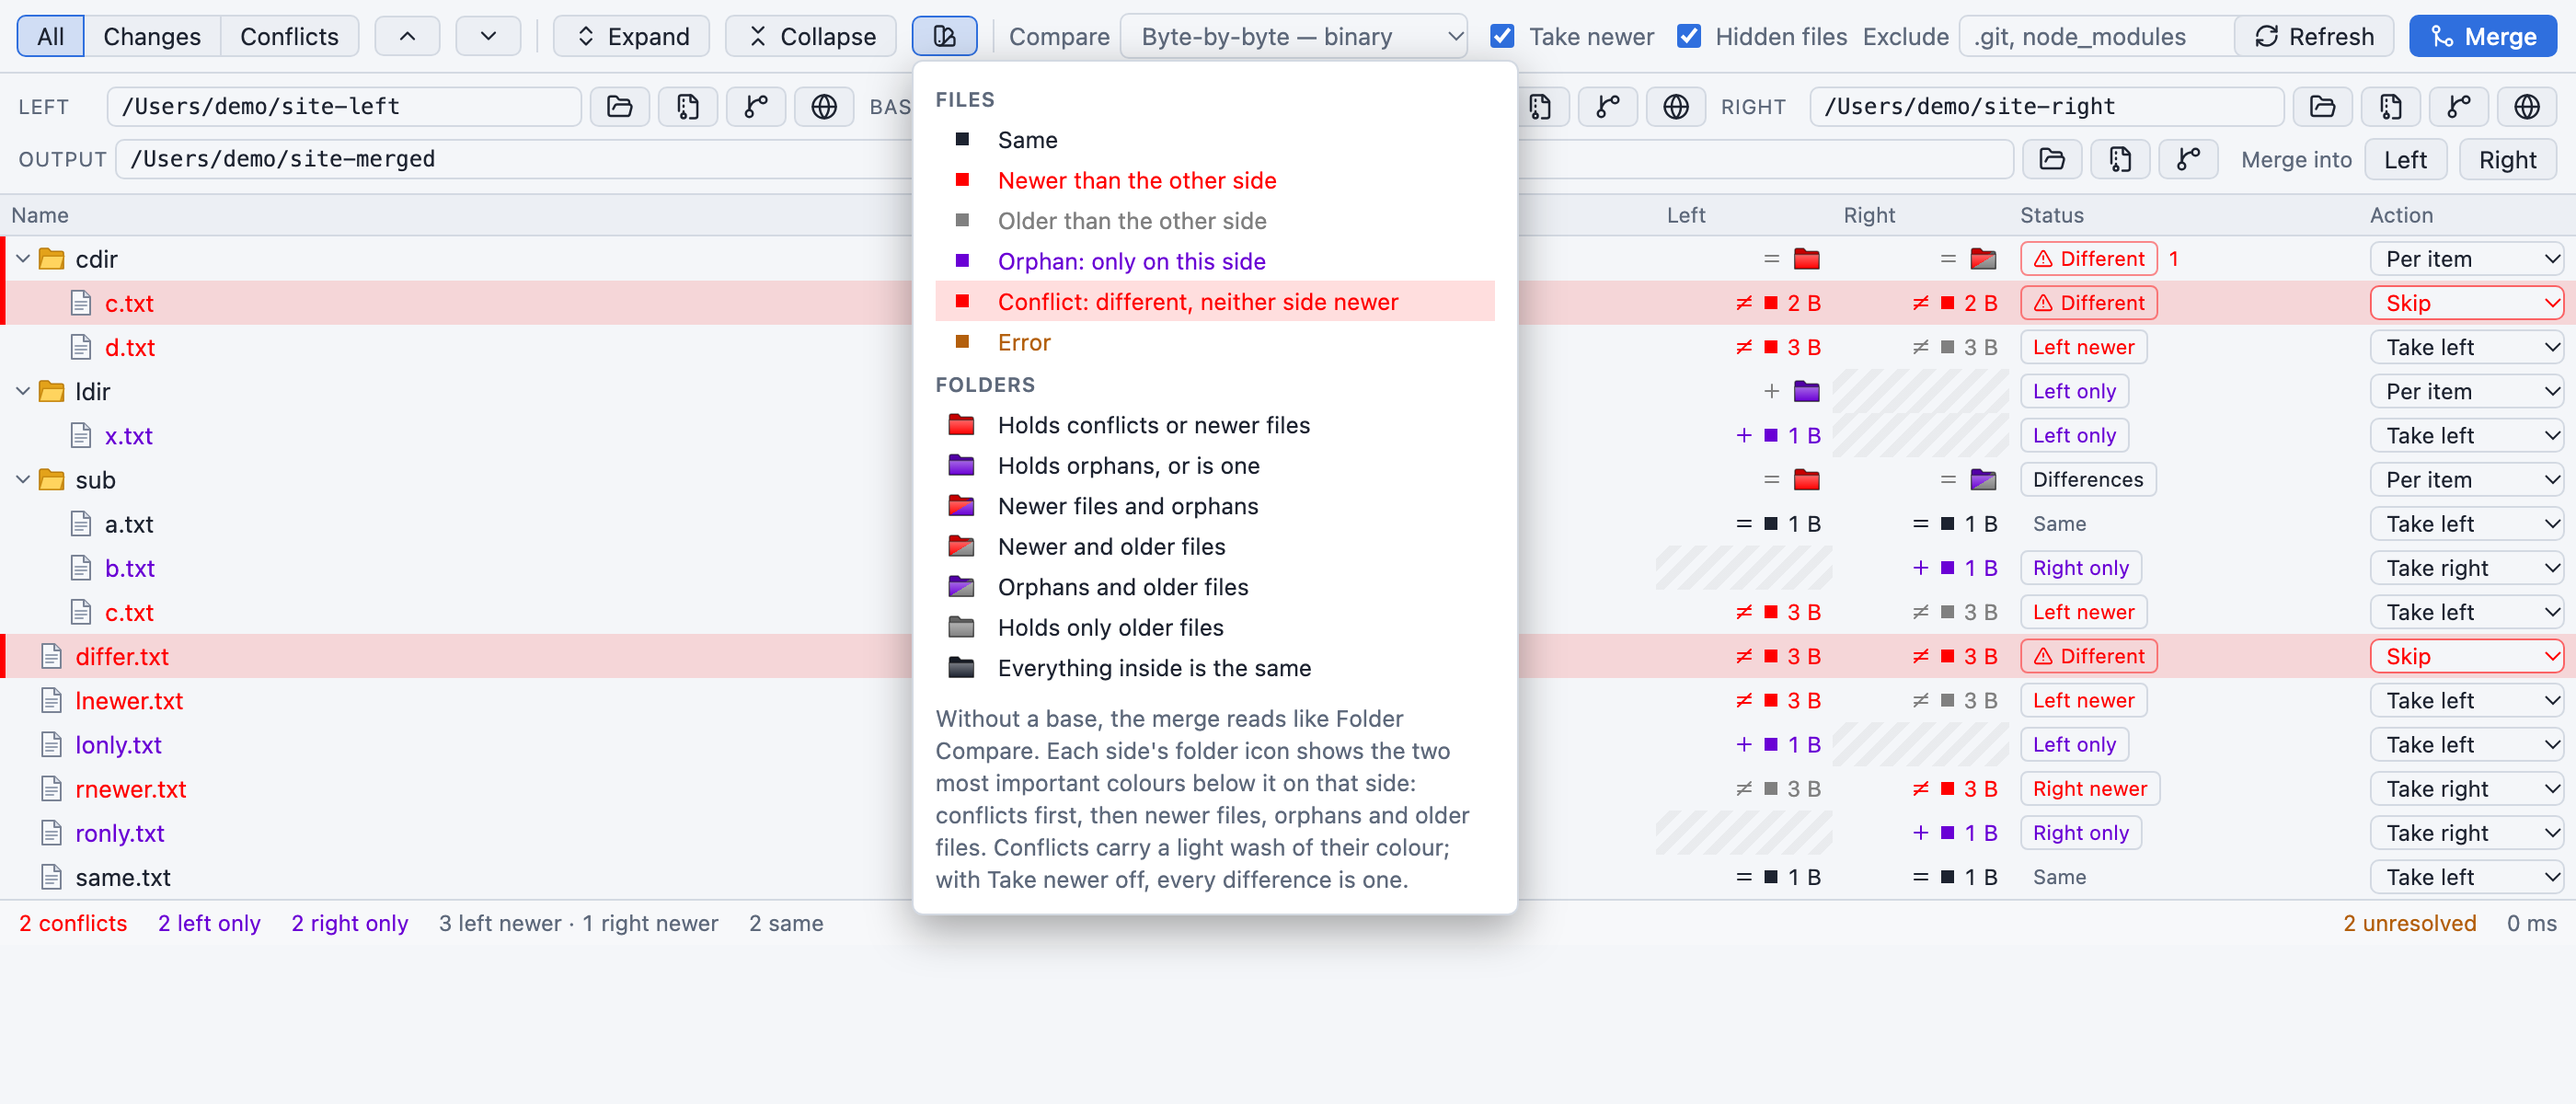
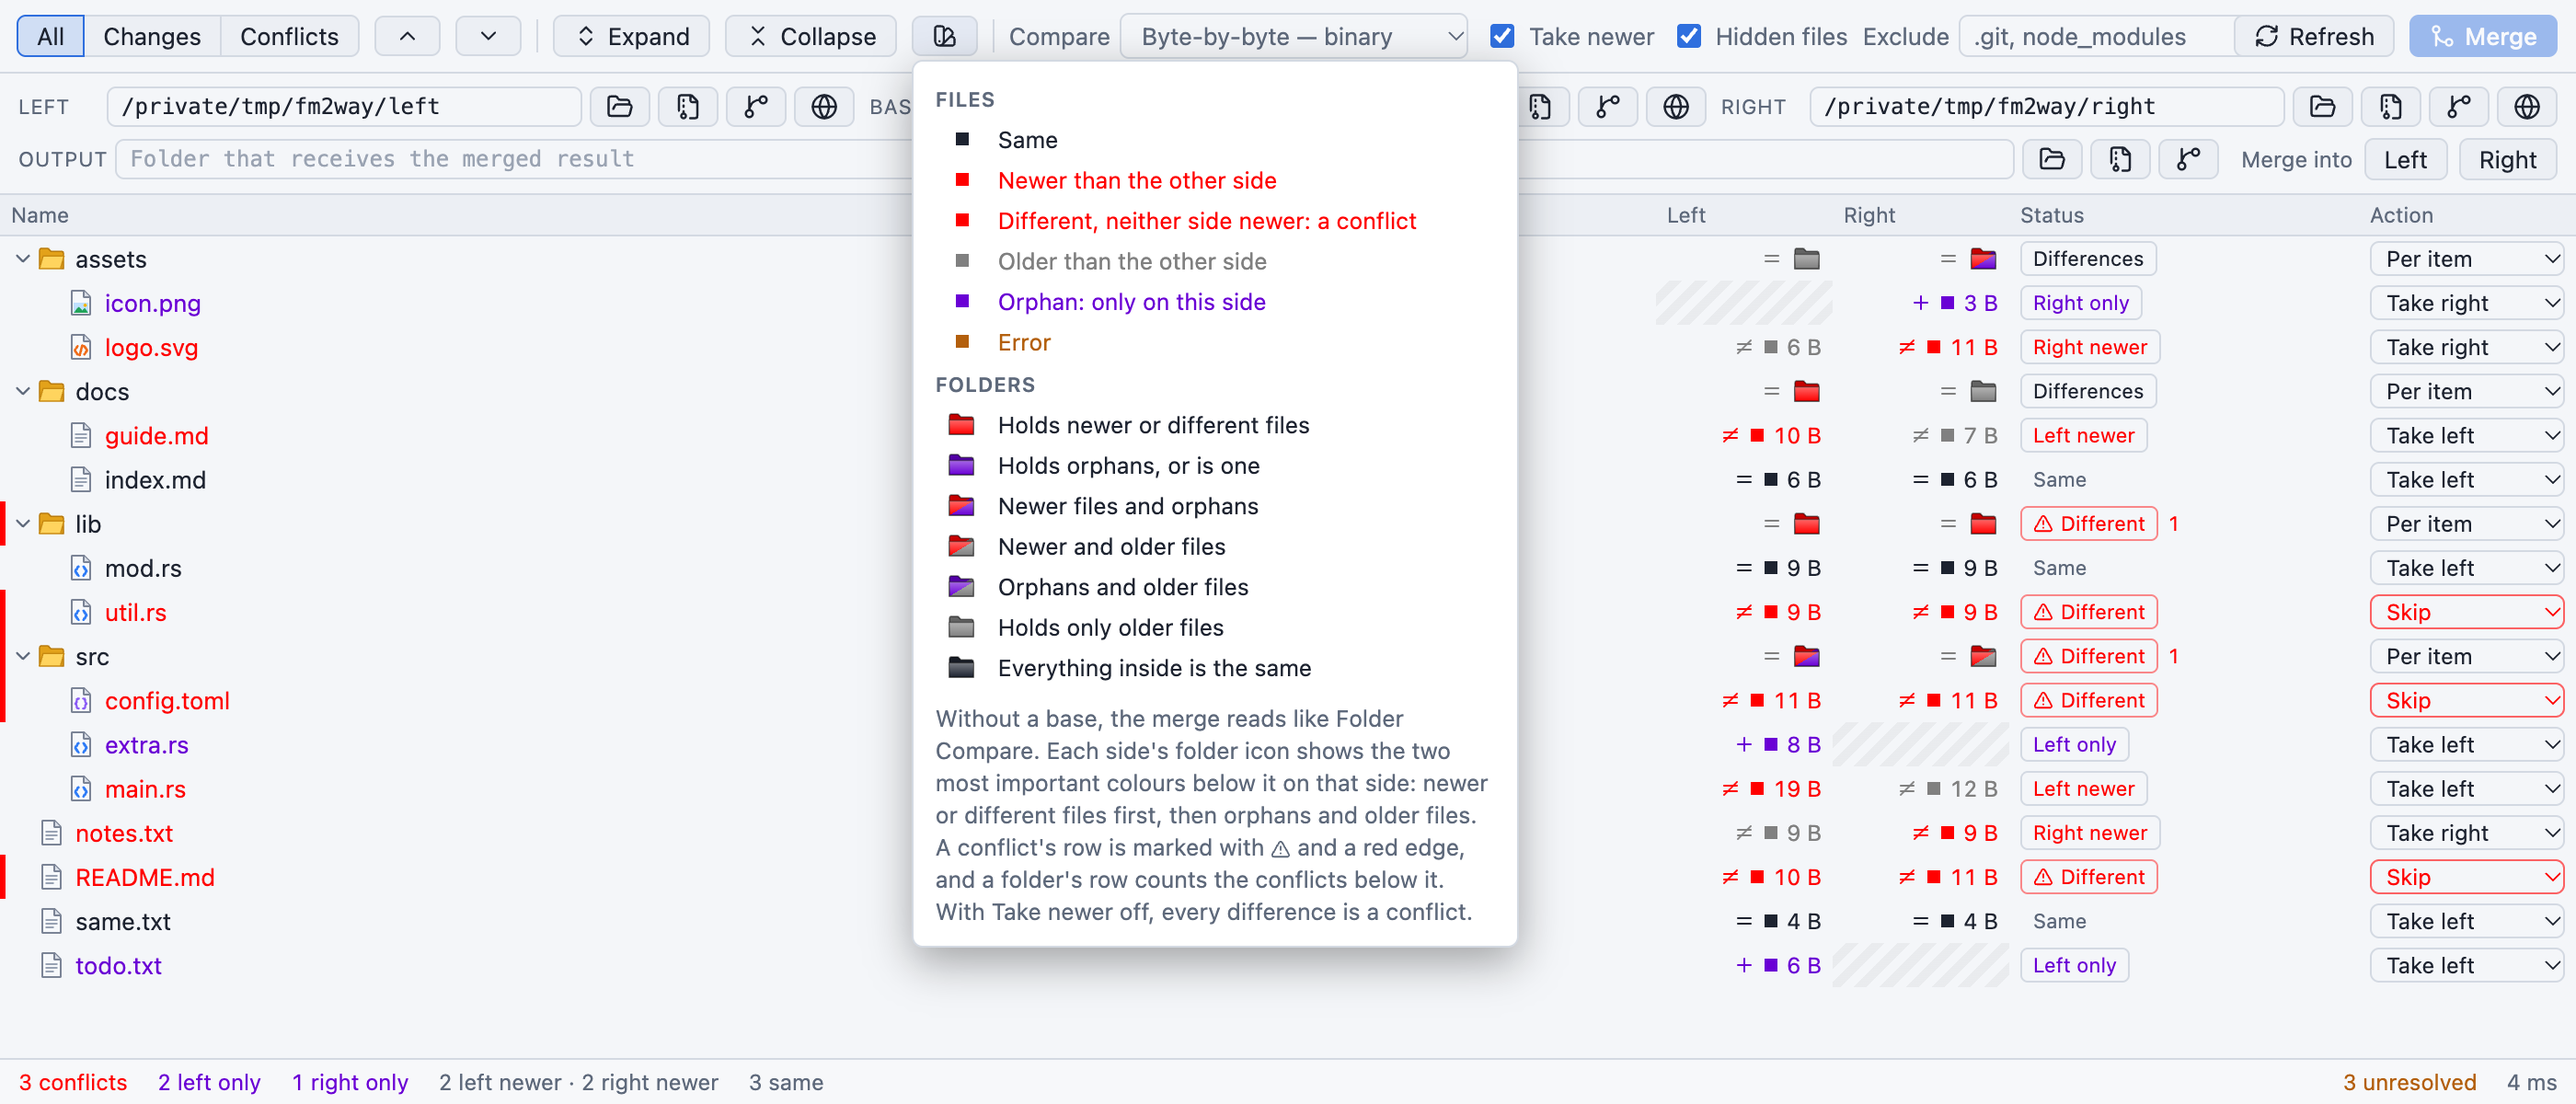
Folder Merge: two-way conflicts take Folder Compare's Different colour
Without a base, a difference that neither side's date settles was drawn in
the conflict colour, which matches the newer colour by default in both
themes. A folder icon holding conflicts then looked like one holding newer
files, and a [conflict, newer] split looked like a plain red folder.

A two-way conflict is always on both sides, so the per-side icons can't
say anything about it that its row doesn't: the warning badge, the red
edge and the folder's conflict count stay. The colours now follow Folder
Compare throughout: `different` maps to --fc-different, shares the newer
slot in the icons (freeing the second slot for orphans or older files)
and drops the conflict wash. Three-way merges are unchanged.

The two-way legend lists "Different, neither side newer: a conflict" and
Folder Compare's "Holds newer or different files", and says how conflicts
are marked. Screenshots refreshed for both themes.

diff --git a/src/components/FolderStatusLegend.tsx b/src/components/FolderStatusLegend.tsx
@@ -169,20 +169,20 @@ const MERGE_FOLDER_ROWS: FolderRows = [
   [{ tones: ["same"] }, "Nothing inside changed"],
 ];
 
-// Folder Merge, two-way: no base, so it reads like Folder Compare, with conflicts for
-// differences it can't settle by date. Conflicts and newer files share a colour by
-// default, so their folder icons share a row.
+// Folder Merge, two-way: no base, so it reads like Folder Compare. A difference it
+// can't settle by date is a conflict, but it is coloured as Folder Compare's
+// different; the row marks the conflict (see the note below the rows).
 const MERGE_TWO_WAY_FILE_ROWS: FileRows = [
   ["same", "Same"],
   ["newer", "Newer than the other side"],
+  ["different", "Different, neither side newer: a conflict"],
   ["older", "Older than the other side"],
   ["orphan", "Orphan: only on this side"],
-  ["conflict", "Conflict: different, neither side newer"],
   ["error", "Error"],
 ];
 
 const MERGE_TWO_WAY_FOLDER_ROWS: FolderRows = [
-  [{ tones: ["conflict"] }, "Holds conflicts or newer files"],
+  [{ tones: ["newer"] }, "Holds newer or different files"],
   [{ tones: ["orphan"] }, "Holds orphans, or is one"],
   [{ tones: ["newer", "orphan"] }, "Newer files and orphans"],
   [{ tones: ["newer", "older"] }, "Newer and older files"],
@@ -275,10 +275,11 @@ export const MergeLegendPopover = ({ twoWay, ...props }: PopoverProps & { twoWay
     <Legend {...props} files={MERGE_TWO_WAY_FILE_ROWS} folders={MERGE_TWO_WAY_FOLDER_ROWS}>
       <p className="muted">
         Without a base, the merge reads like Folder Compare. Each side's folder
-        icon shows the two most important colours below it on that side:
-        conflicts first, then newer files, orphans and older files. Conflicts
-        carry a light wash of their colour; with Take newer off, every
-        difference is one.
+        icon shows the two most important colours below it on that side: newer
+        or different files first, then orphans and older files. A conflict's
+        row is marked with <TriangleAlert size={11} /> and a red edge, and a
+        folder's row counts the conflicts below it. With Take newer off, every
+        difference is a conflict.
       </p>
     </Legend>
   ) : (

diff --git a/src/lib/folderColors.ts b/src/lib/folderColors.ts
@@ -188,8 +188,10 @@ export type MergeSide = "left" | "base" | "right";
  * the side it came from (a change made the same way on both sides counts as
  * the left's), and the copies it replaces are older; a conflict or a clean
  * line-by-line merge colours every side. Two-way merges have no base, so they
- * read like Folder Compare. A side without the item still gets a tone, for its
- * deletion mark and for the folder icons above it.
+ * read like Folder Compare throughout: a difference that neither side's date
+ * settles is Folder Compare's different, not a conflict colour, since it is on
+ * both sides and its row already marks it. A side without the item still gets a
+ * tone, for its deletion mark and for the folder icons above it.
  */
 export function mergeSideTone(cls: MergeClass, side: MergeSide): AnyTone {
   switch (cls) {
@@ -212,12 +214,14 @@ export function mergeSideTone(cls: MergeClass, side: MergeSide): AnyTone {
     case "bothAddedConflict":
     case "deleteModifyConflict":
     case "typeConflict":
-    case "different":
       return "conflict";
     case "autoMerged":
       return "mergeable";
     case "error":
       return "error";
+    // Two-way only, as Folder Compare colours them.
+    case "different":
+      return "different";
     case "leftOnly":
     case "rightOnly":
       return "orphan";

diff --git a/src/styles.css b/src/styles.css
@@ -34,8 +34,8 @@
   --fc-info: #606060;
   /* Folder Merge's own roles (folderColors.ts), also overridable in Settings → Colors: a change
      made on the left, one made on the right, changes on both sides that merge cleanly, and a
-     conflict. Older and same copies use the --fc-* colours. Rows carry a --fm-tint wash of
-     their role. */
+     conflict. Older and same copies use the --fc-* colours, as does all of a two-way merge (no
+     base), whose conflicts are --fc-different. Rows carry a --fm-tint wash of their role. */
   --fm-left: #63dadc;
   --fm-right: #dc5be2;
   --fm-mergeable: #ee702c;

diff --git a/src/components/AppSettingsDialog.tsx b/src/components/AppSettingsDialog.tsx
@@ -471,6 +471,7 @@ function AppearancePage({ prefs, set }: { prefs: Prefs; set: SetPrefs }) {
         <small className="muted settings-hint">
           Left, base and right are each coloured on their own: a change in the colour of the side it came from, the
           copies it replaces in Folder Compare&apos;s Older colour. Rows with a change get a light wash of its colour.
+          A merge without a base uses Folder Compare&apos;s colours, so its conflicts take Different.
         </small>
         <MergePreview />
       </fieldset>
